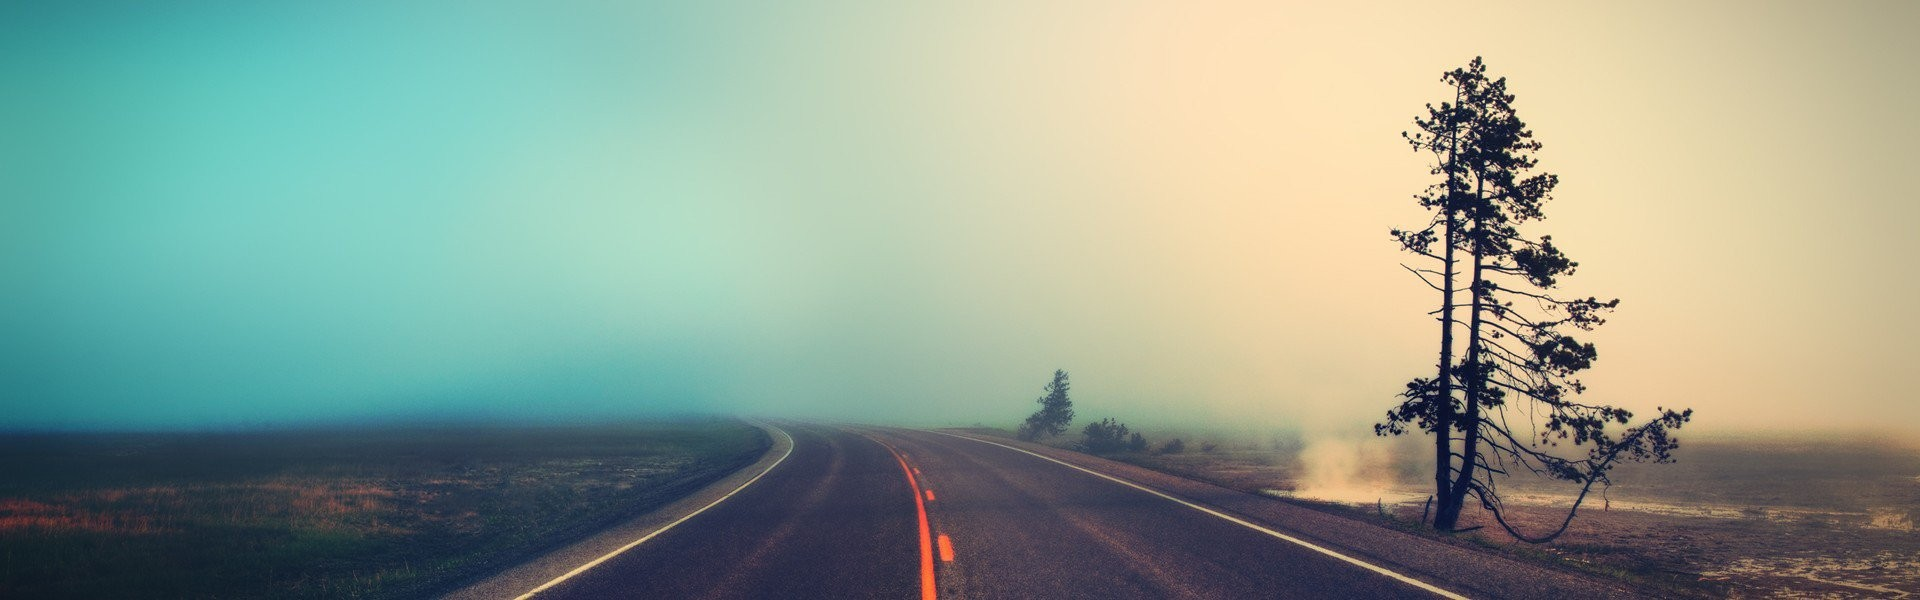
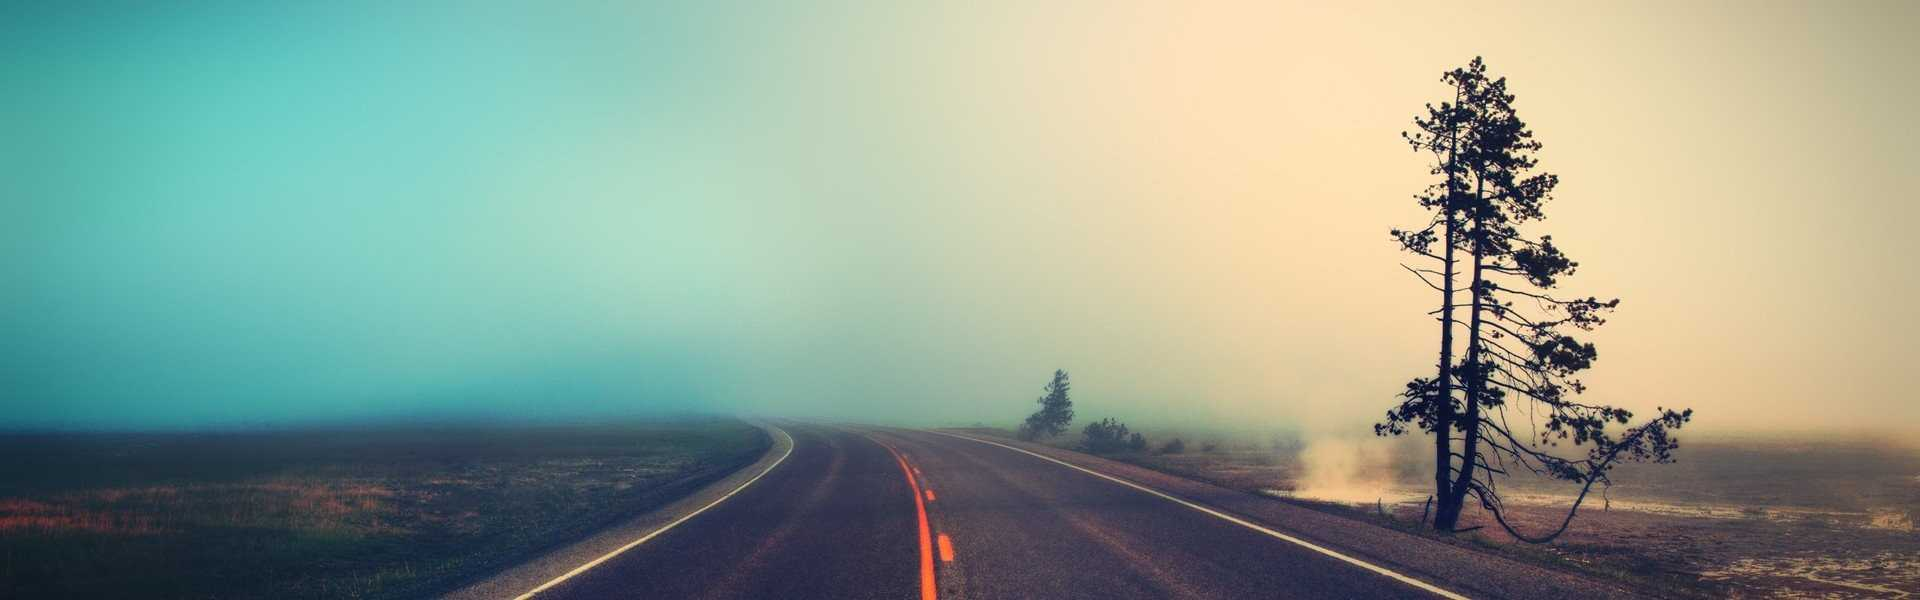
changed images used to decrease landing page load time

Changed region(s): [[0.7188, 0.12, 0.875, 0.72]]

diff --git a/src/components/landing/Landing.js b/src/components/landing/Landing.js
@@ -7,7 +7,7 @@ import LandingFooter from "./LandingFooter";
 import ImageSlider from "./ImageSlider";
 import Grid from "@material-ui/core/Grid";
 import { makeStyles } from "@material-ui/core/styles";
-import screenshot from "../common/images/screenshot.png";
+import screenshot from "../common/images/screenshot.jpg";
 import playStore from "../common/images/playStore.png";
 import Snackbar from "@material-ui/core/Snackbar";
 import Link from "@material-ui/core/Link";
